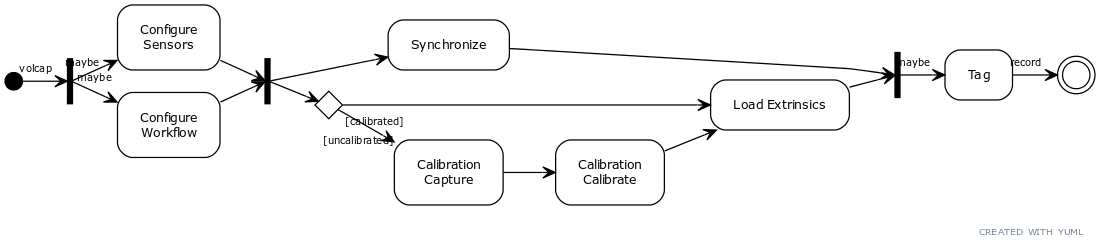
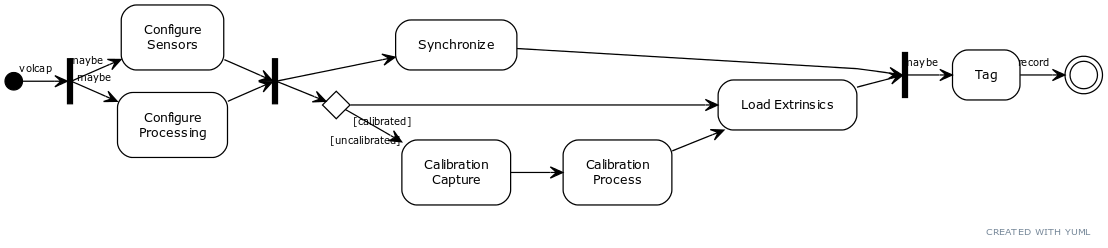
update use case and various fixes

diff --git a/docs/acquisition.md b/docs/acquisition.md
@@ -6,36 +6,69 @@ description: "Recording and Extracting"
 ---
 
 # Data Recording
-**TODO**
-{: .label .label-red }
 
-This section describes how to use VolCap for acquiring RGB-D data in various sensor placement settings, and at the same time responds to issues identified in the previous version.
+This section describes how to use **VolCap** to record multi-view RGB-D data in various deployment settings.
 
-## Standard Case: 4 Kinect Azure Devices (issue: [#25](https://github.com/VCL3D/VolumetricCapture/issues/25))
+![RecordActivity](../assets/images/usage/record_lr.png)
+
+The overall recording process depicted above:
+1. Starts by firing up `volcap.exe` (with the appropriate arguments)
+2. _Optionally_ configuring sensor or processing parameters
+3. Synchronizing the **Eyes**
+4. Calibrating the **Eyes**:
+    1. If a calibration has already been performed and the sensors have not been moved, then loading the latest existing calibration information suffices.
+    2. Otherwise, calibration data need to be first captured, and then processed, with the new latest results loaded into the system
+5. Then, users can _optionally_ tag the recording using the corresponding input text widget, and then press the recording button to start recording.
+
+If the sensor processing units are Intel NUCs and the installation has also configured the LED utilities, then for each distinct step, the NUC's LEDs will be colored accordingly:
+
+
+| IDLE | CONNECTED | CALIBRATING | RECORDING |
+|:----:|:----:|:----:|:----:|
+| <img src="../assets/images/NUCLEDS/NUCLEDS_idle.png"> | <img src="../assets/images/NUCLEDS/NUCLEDS_connected.png"> | <img src="../assets/images/NUCLEDS/NUCLEDS_calib.png"> | <img src="../assets/images/NUCLEDS/NUCLEDS_rec.png"> |
+
+## Four (4) Kinect 4 Azure Devices
+
 ### Initialization
-When starting VolCap all the available devices should be automatically be displayed on the *Devices* widget. The user should just check the devices to be connected, (select a device as the master for hardware synchronization) and hit the connect button. Each device stream should be displayed in a dedicated window.
+
+When starting **VolCap** all the available devices should be automatically be displayed on the `Devices` widget.
+The user should just check the devices to be connected, (_optionally_, select a device as the master for hardware synchronization) and hit the connect button. 
+Each device stream will be displayed in a dedicated window with a distinct color.
+
 <p align="center">
      <img src="../../assets/images/data_acq/4xk4a_init_connection.gif">
 </p>
 
 ### Calibration
-Before recording a sequence the system must be calibrated. The user should assemble the calibration structure in the middle of the capturing space, (change the calibration settings if needed, we usually use 25 inner and 20 outer iterations), capture RGB-D frames, and hit the *Process* option in the *Calibration* menu.
+
+Before recording a sequence the system must be calibrated.
+The user should assemble the calibration structure in the middle of the capturing space, (_optionally_, change the calibration settings if needed, we usually use `25` inner and `20` outer iterations), capture RGB-D frames, and hit the `Process` option in the `Calibration` menu.
+
 <p align="center">
      <img src="../../assets/images/data_acq/4xk4a_calib.gif">
 </p>
 
 ### Preparing and Recording
-After calibrating the system, the user should synchronize the devices with the main workstation (see [synchronization section]()). Additionally, it is a good practice to reset the *Exposure* and the Ccolor Gain* settings for all the devices, in order to get consistent results betweeen the devices.
+
+After calibrating the system, the user should synchronize the devices with the main workstation (see the [Synchronization](../synchronization) section).
+Additionally, it is a good practice to reset the `Exposure` and the `Color Gain` settings for all the devices, in order to get consistent results betweeen the devices.
+
 <p align="center">
      <img src="../../assets/images/data_acq/4xk4a_prep_n_rec.gif">
 </p>
 
-## Connecting and Calibrating 3 Kinect Azure Devices (issue: [#29](https://github.com/VCL3D/VolumetricCapture/issues/29))
+## Three (3) Kinect 4 Azure Devices
 
-With VolCap it is possible to connect and calibrate *N* devices, with *N >= 3*. Just follow all the standard steps.
+It is also possible to connect and calibrate `K` devices, with `N >= 3`. Just follow all the standard steps.
+
+<iframe width="560" height="315" src="https://www.youtube.com/embed/A7pOEdZ11nQ" frameborder="0" allow="accelerometer; autoplay; clipboard-write; encrypted-media; gyroscope; picture-in-picture" allowfullscreen></iframe>
+
+<!--
 <p align="center">
      <img src="../../assets/images/data_acq/3k4a_set1.gif">
 </p>
+-->
+
 <!--
 * Volumetric Capturing - 4 k4as - issues [Fail to stream with Kinect Azure #25](https://github.com/VCL3D/VolumetricCapture/issues/25)
 * Volumetric Capturing - 6 k4as
@@ -46,17 +79,21 @@ With VolCap it is possible to connect and calibrate *N* devices, with *N >= 3*. 
 * Showcase NUC LEDs at each step !!
 -->
 
-![RecordActivity](../assets/images/usage/record_lr.png)
-
 # Recording Extraction
-After the recording session is completed (as described above), the user can save data from distrinct frames of each recorded file (furtherly described in [VolSnap Tool](../volsnap)). User can save _depth_ and _color_ data (undistorted if such option is selected before exporting starts), _pointclouds_ with and without color per vertex (again, pointclouds will be undistorted if such option is enabled) and at last if calibration option is selected, pointclouds with be saved in a global coordinate system.
-Once exporting is complete, output directory should look similar to
+
+After the recording session is completed (as described above), the user can save data from distrinct frames of each recorded file (described in the [Volumetric Snapshot](../volsnap) section). 
+User can save the recorded _depth_ and _color_ (_optionally_, undistorted if the corresponding option is selected before exporting starts), and _pointcloud_ data, with and without color per vertex (_note that_, the pointclouds will be undistorted if such an option is selected), and finally, if the calibration option is selected, the exported `pointclouds` with aligned to the global coordinate system.
+Once the exporting is completed, the output directory should look like this:
+
 <p align="center">
      <img src="../../assets/images/volsnap/folder.png" width="900"/> 
 </p> 
+
 depending on the exporting options selected.
 
-These folders contain the corresponding data, with the _groupID_, _deviceName_ and _frameID_ contained in the filename.
+These folders contain the corresponding data, with the `group_id`, `device_name`and `frame_id` contained in the filename that is formated as:
+
+`{group_id}_{device_name}_{data_type}_{frame_id}.ext`.
 
 <p align="center">
      <img src="../../assets/images/volsnap/color_dumped.png" width="600"/> 
@@ -64,10 +101,10 @@ These folders contain the corresponding data, with the _groupID_, _deviceName_ a
      <img src="../../assets/images/volsnap/pcloud_dumped.png" width="600"/> 
 </p> 
 
-_Color_, _Depth_ and _Pontcloud_ data from the first group for a recording.
+> `Color`, `depth` and `pointcloud` data from the first group (`0`) of a dumped recording.
 
-_Depth_ images can be previewed any program supporting *pgm* file format visualization (we use [InfranView](https://www.irfanview.com/)) and _Pointclouds_ can be shown by any 3D visualization program (we use [Meshlab](https://www.meshlab.net/)).
+`Depth` images can be previewed on any program supporting the `.pgm` file format visualization (we use [InfranView](https://www.irfanview.com/)), and `pointclouds` can be visualized on any 3D visualization program supporting `.ply` file format (we use [Meshlab](https://www.meshlab.net/)).
 
-Here we show the **calibrated** merged views of **colored** _Pointclouds_, as exported by our software.
+Here we show the **calibrated** merged views of **colored** `pointclouds`, as exported by `volsnap.exe`.
 
-<img src="../../assets/images/volsnap/colored_pcloud_result.png" width="900"/> 
+<img src="../../assets/images/volsnap/colored_pcloud_result.png" width="900"/>

diff --git a/docs/calibration/process.md b/docs/calibration/process.md
@@ -39,7 +39,7 @@ Then, the calibration process steps are:
 
 1. From the top menu, `Calibration`->`Configure` to check and set the calibration parameters (set **iterations** to maximum for optimal calibration).
 2. Then, `Calibration`->`Capture` to capture snapshots of the depth streams.
-3. When snapshot capturing is completed, `Calibration`->`Calibrate` starts the actual pose parameter estimation.
+3. When snapshot capturing is completed, `Calibration`->`Process` starts the actual pose parameter estimation.
 4. Once the process has finished, use the `Load Latest` button on the down-left side of the calibration pop-up.
 5. (**alternative**) If the sensors have been already calibrated and not moved, the latest calibration is already available. Therefore, after connecting the sensors, `Calibration`->`Load Latest` will load them, bypassing the need to perform the calibration process again.
 
